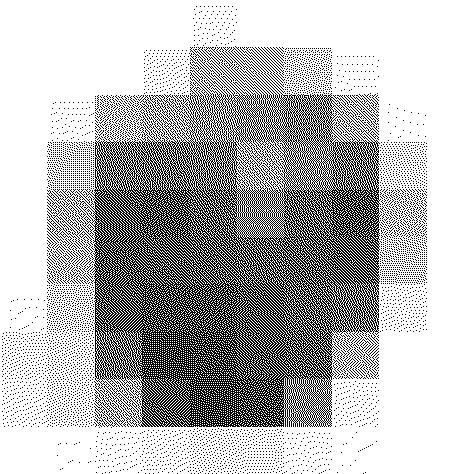
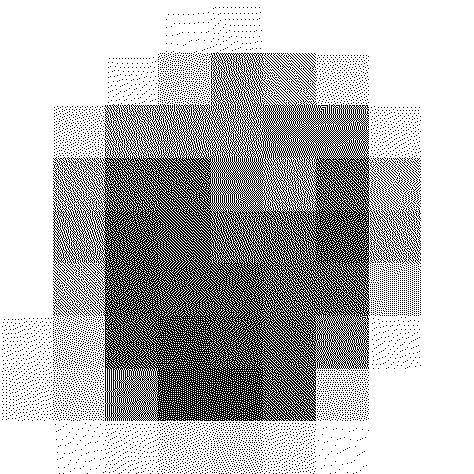
update resize percentage calculation

Changed region(s): [[0.0, 0.0886, 0.9156, 1.0], [0.4726, 0.0295, 0.5021, 0.0591]]

diff --git a/web/imagePixelation.py b/web/imagePixelation.py
@@ -34,7 +34,7 @@ def save_image_with_variations(object_name, im):
     try:
         for i, (resize_percentage, grayscale, suffix) in enumerate(zip(RESIZE_PERCENTAGES, GRAYS, FILENAME_SUFFIXES)):
             filename = f"{object_name}{suffix}.jpg"
-            new_im = pixelate(im, im.size[0] if resize_percentage is None else resize_percentage, grayscale)
+            new_im = pixelate(im, im.size[0] if resize_percentage is None else int(resize_percentage/ 500 * max(im.size[0], im.size[1])), grayscale)            
             if new_im:
                 new_im.save(f"{OUTPUT_DIR}/{filename}")
     except Exception as e:
